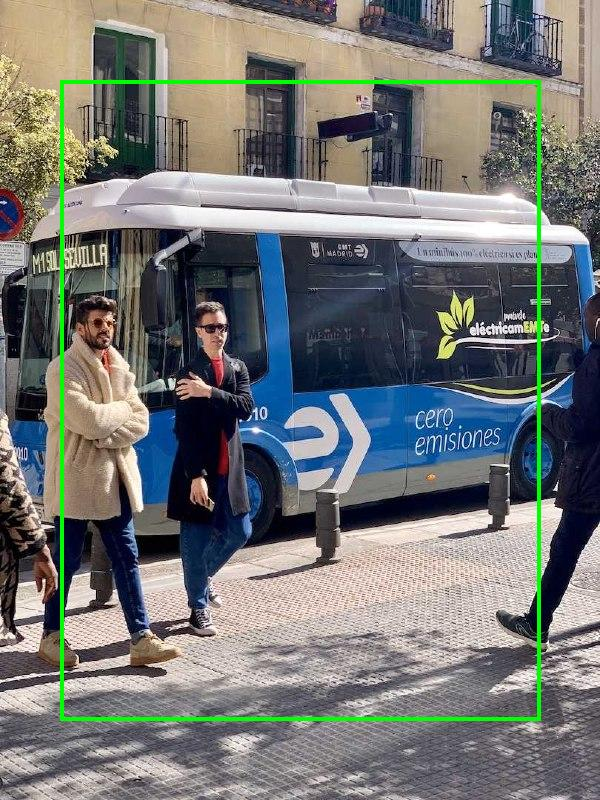
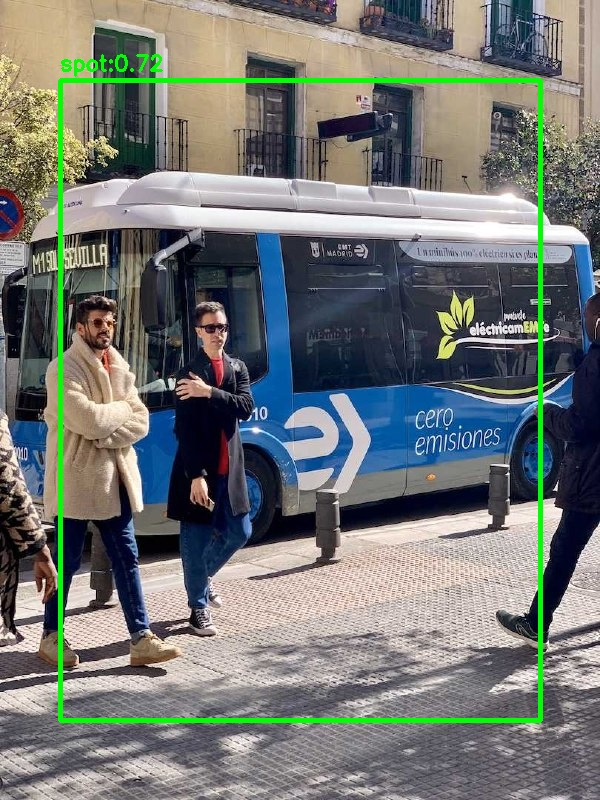
improved logging with DB and CSV export

Changed region(s): [[0.09, 0.0625, 0.93, 0.9062]]

diff --git a/app/templates/dashboard.html b/app/templates/dashboard.html
@@ -17,6 +17,34 @@
     <canvas id="barChart"></canvas>
   </div>
   </div>
+  <!-- Export CSV button (manager only) -->
+  <div class="mb-3">
+    <a href="{{ url_for('main.export_csv') }}" class="btn btn-primary">Export CSV</a>
+  </div>
+
+  <!-- Last 10 Inspections Table -->
+  <div class="table-responsive">
+    <table class="table table-sm table-bordered bg-dark text-light">
+      <thead>
+        <tr>
+          <th>ID</th>
+          <th>User</th>
+          <th>Result</th>
+          <th>Disposition</th>
+        </tr>
+      </thead>
+      <tbody>
+        {% for log in last_logs %}
+        <tr>
+          <td>{{ log.id }}</td>
+          <td>{{ log.user.username if log.user else 'N/A' }}</td>
+          <td>{{ log.result }}</td>
+          <td>{{ log.disposition }}</td>
+        </tr>
+        {% endfor %}
+      </tbody>
+    </table>
+  </div>
   <script>
   var pieCtx = document.getElementById('pieChart').getContext('2d');
   var pieChart = new Chart(pieCtx, {

diff --git a/app/routes.py b/app/routes.py
@@ -1,7 +1,33 @@
 from flask import render_template, redirect, url_for, flash, request, session, current_app
 from flask_login import login_user, logout_user, login_required, current_user
 from . import db, login_manager
-from .models import User, InspectionLog
+from .models import User, InspectionLog, QueryLog
+import json
+
+# Helper to log every mutating request
+def log_request(request, result):
+    try:
+        endpoint = request.endpoint or ''
+        username = current_user.username if hasattr(current_user, 'username') else ''
+        # Try to get JSON or form data, fallback to args
+        if request.is_json:
+            params = request.get_json(silent=True) or {}
+        elif request.form:
+            params = dict(request.form)
+        else:
+            params = dict(request.args)
+        params_json = json.dumps(params, ensure_ascii=False)
+        # Result can be dict or str
+        if isinstance(result, dict):
+            result_json = json.dumps(result, ensure_ascii=False)
+        else:
+            result_json = str(result)
+        log = QueryLog(endpoint=endpoint, username=username, params_json=params_json, result_json=result_json)
+        db.session.add(log)
+        db.session.commit()
+    except Exception as e:
+        # Don't crash app if logging fails
+        print(f"[QueryLog] Logging failed: {e}")
 from .detection import detect_defects_stub, draw_boxes
 import os
 import shutil
@@ -52,15 +78,16 @@ def inspect():
             # Save original and processed images
             session['last_image'] = filename
             # Ensure processed folder exists
-            # Save processed image in static/processed/
             processed_dir = os.path.abspath(os.path.join(current_app.root_path, '../static/processed'))
             os.makedirs(processed_dir, exist_ok=True)
             processed_path = os.path.join(processed_dir, filename)
             shutil.copy(upload_path, processed_path)
-            # Draw stub bounding boxes on processed image
-            draw_boxes(processed_path, detection.get('boxes', []), color='lime', width=4)
+            # Draw YOLO-style boxes with label:conf on processed image
+            draw_boxes(processed_path, detection.get('detections', []), color='lime', width=4)
             session['processed_image'] = filename  # Only filename, not path
             session['last_result'] = detection['result']
+            # Log the inspection request
+            log_request(request, detection)
             return redirect(url_for('main.result'))
         flash('No file uploaded')
     return render_template('inspect.html')
@@ -91,6 +118,8 @@ def result():
         )
         db.session.add(log)
         db.session.commit()
+        # Log the feedback/submit request
+        log_request(request, {'status': 'feedback_submitted', 'inspection_id': log.id})
         flash('Feedback submitted!')
         return redirect(url_for('main.inspect'))
     return render_template('result.html', filename=filename, processed=processed, result=result)
@@ -100,7 +129,7 @@ def result():
 def dashboard():
     if current_user.role != 'QualityControlManager':
         return redirect(url_for('main.inspect'))
-    logs = InspectionLog.query.all()
+    logs = InspectionLog.query.order_by(InspectionLog.timestamp.desc()).all()
     total = len(logs)
     false_alarms = sum(1 for l in logs if l.false_alarm)
     missed = sum(1 for l in logs if l.missed_defect)
@@ -108,7 +137,42 @@ def dashboard():
     for l in logs:
         if l.disposition in disposition_counts:
             disposition_counts[l.disposition] += 1
-    return render_template('dashboard.html', total=total, false_alarms=false_alarms, missed=missed, disposition_counts=disposition_counts, logs=logs)
+    last_logs = logs[:10]
+    return render_template('dashboard.html', total=total, false_alarms=false_alarms, missed=missed, disposition_counts=disposition_counts, last_logs=last_logs)
+
+# Manager-only CSV export
+import csv
+from flask import send_file, make_response
+import io
+
+@bp.route('/export')
+@login_required
+def export_csv():
+    if current_user.role != 'QualityControlManager':
+        return redirect(url_for('main.inspect'))
+    logs = InspectionLog.query.order_by(InspectionLog.timestamp.desc()).all()
+    # Prepare CSV in memory
+    si = io.StringIO()
+    writer = csv.writer(si)
+    writer.writerow(['ID', 'Timestamp', 'User', 'Result', 'FalseAlarm', 'MissedDefect', 'Annotation', 'Disposition', 'ImagePath'])
+    for log in logs:
+        writer.writerow([
+            log.id,
+            log.timestamp,
+            log.user.username if log.user else '',
+            log.result,
+            log.false_alarm,
+            log.missed_defect,
+            log.annotation,
+            log.disposition,
+            log.image_path
+        ])
+    output = make_response(si.getvalue())
+    from datetime import datetime
+    dt = datetime.now().strftime('%Y%m%d')
+    output.headers["Content-Disposition"] = f"attachment; filename=vdds_full_log_{dt}.csv"
+    output.headers["Content-type"] = "text/csv; charset=utf-8"
+    return output
 
 @bp.route('/model', methods=['GET', 'POST'])
 @login_required

diff --git a/app/detection.py b/app/detection.py
@@ -6,26 +6,37 @@ import time
 
 def detect_defects_stub(image_path):
     """
-    Simulate defect detection. Draws stub bounding box and returns fake detections.
+    Simulate defect detection. Returns fake detections in YOLO-style format.
     # TODO replace with real model weights and inference logic
     """
     time.sleep(1.5)
     # Fake result: randomly OK or DEFECT
     result = random.choice(['OK', 'DEFECT'])
-    # Load image and compute a single box inset by 10%
+    # Fake detection: one box, random class/confidence
     img = Image.open(image_path)
     w, h = img.size
     x1, y1 = int(w * 0.1), int(h * 0.1)
     x2, y2 = int(w * 0.9), int(h * 0.9)
-    boxes = [(x1, y1, x2, y2)]
-    return {'result': result, 'boxes': boxes}
+    detection = {
+        'class': random.choice(['crack', 'spot', 'none']),
+        'confidence': round(random.uniform(0.7, 0.99), 2),
+        'bbox': [x1, y1, x2, y2]
+    }
+    return {'result': result, 'detections': [detection]}
 
-def draw_boxes(image_path, boxes, color='green', width=4):
+def draw_boxes(image_path, detections, color='green', width=4):
     """
-    Draws rectangular boxes on the image at image_path.
+    Draws YOLO-style boxes with label:confidence on the image at image_path.
     """
-    img = Image.open(image_path)
-    draw = ImageDraw.Draw(img)
-    for (x1, y1, x2, y2) in boxes:
-        draw.rectangle([x1, y1, x2, y2], outline=color, width=width)
-    img.save(image_path)
+    import cv2
+    img = cv2.imread(image_path)
+    if img is None:
+        return
+    for det in detections:
+        x1, y1, x2, y2 = det['bbox']
+        label = det.get('class', 'obj')
+        conf = det.get('confidence', 0)
+        text = f"{label}:{conf:.2f}"
+        cv2.rectangle(img, (x1, y1), (x2, y2), (0,255,0), width)
+        cv2.putText(img, text, (x1, y1-10), cv2.FONT_HERSHEY_SIMPLEX, 0.7, (0,255,0), 2)
+    cv2.imwrite(image_path, img)

diff --git a/app/models.py b/app/models.py
@@ -19,3 +19,12 @@ class InspectionLog(db.Model):
     disposition = db.Column(db.String(16))
     image_path = db.Column(db.String(256))
     user = db.relationship('User')
+
+# Production-level query log
+class QueryLog(db.Model):
+    id = db.Column(db.Integer, primary_key=True)
+    timestamp = db.Column(db.DateTime, default=datetime.utcnow)
+    endpoint = db.Column(db.String(128))
+    username = db.Column(db.String(80))
+    params_json = db.Column(db.Text)
+    result_json = db.Column(db.Text)

diff --git a/migrate_querylog.py b/migrate_querylog.py
@@ -1,0 +1,9 @@
+# Script to create the QueryLog table in the existing SQLite DB
+from app import create_app, db
+from app.models import QueryLog
+
+app = create_app()
+
+with app.app_context():
+    db.create_all()
+    print("QueryLog table created (if not already present)")
